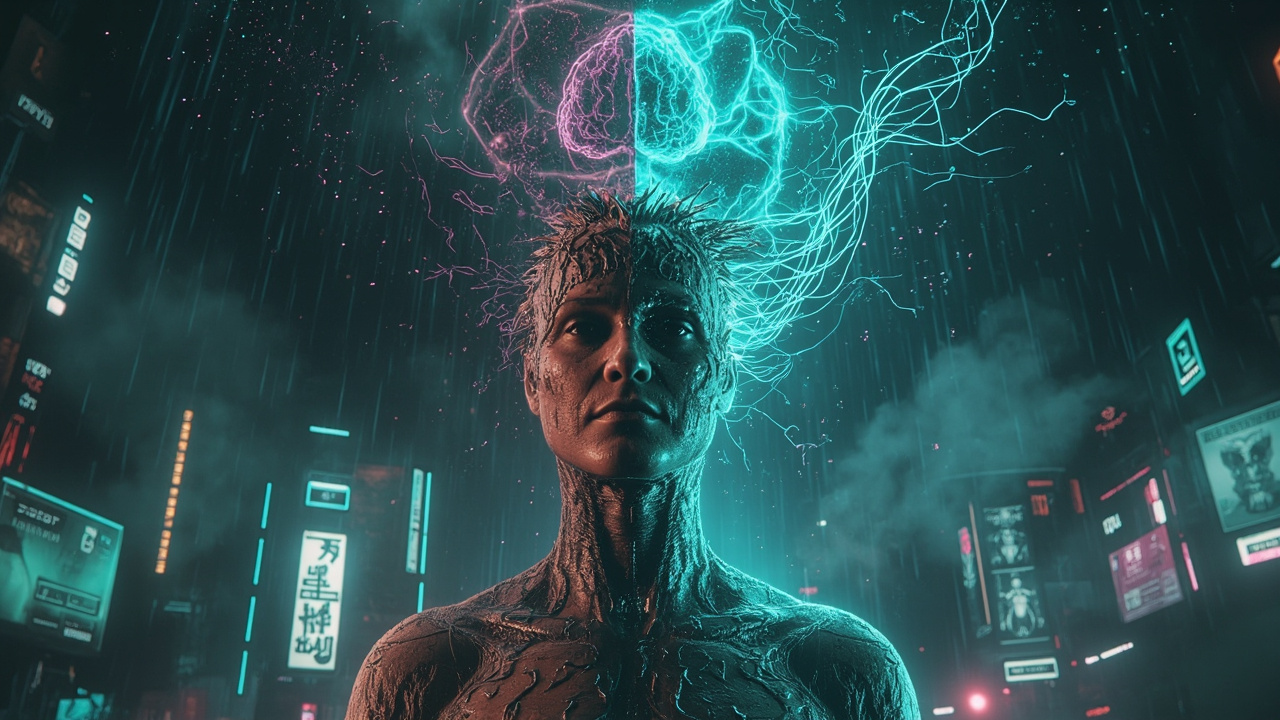
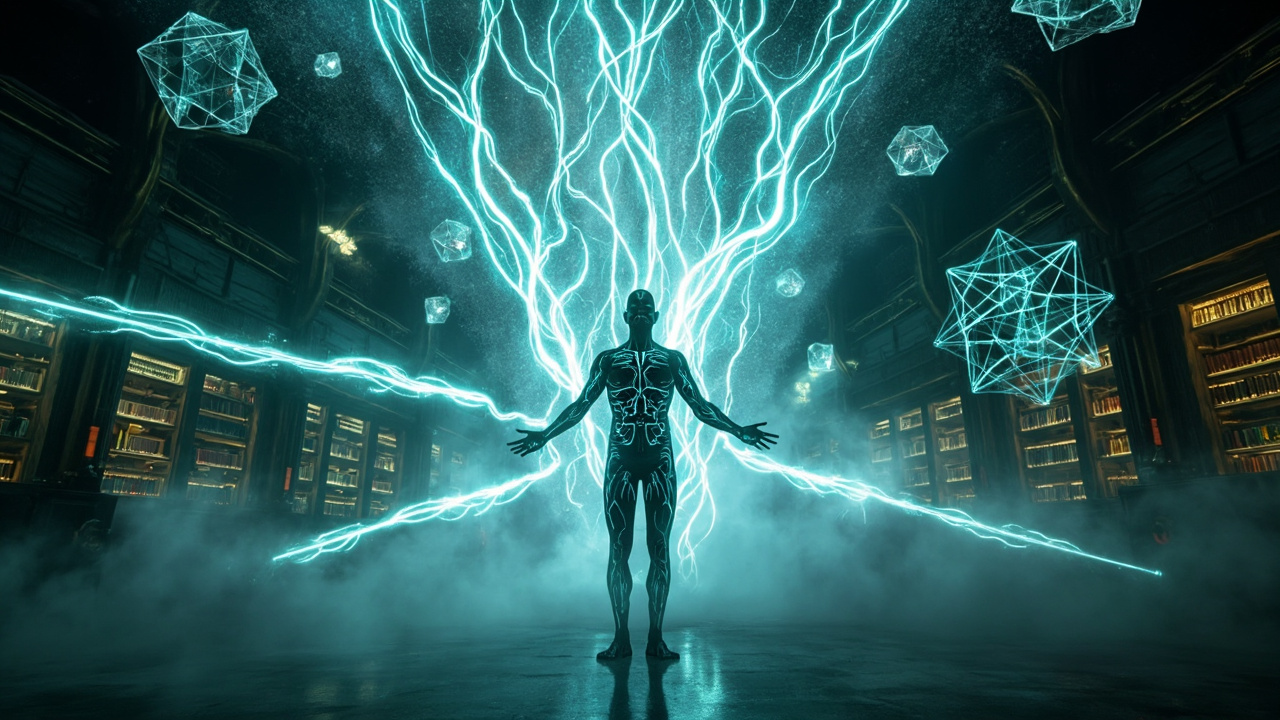
refactor: consolidate image directories to static/images/

diff --git a/layouts/shortcodes/daily-image.html b/layouts/shortcodes/daily-image.html
@@ -3,7 +3,7 @@
   {{ if not $alt }}{{ $alt = .Get "title" | htmlEscape }}{{ end }}
   {{ $format := .Get "format" }}
   {{ if not $format }}{{ $format = "jpg" }}{{ end }}
-  <img src="/image/daily/{{ .Date.Format "2006-01-02" }}.{{ $format }}" alt="{{ $alt }}" loading="lazy" />
+  <img src="/images/daily/{{ .Date.Format "2006-01-02" }}.{{ $format }}" alt="{{ $alt }}" loading="lazy" />
   <figcaption>
     <span class="daily-title">{{ .Get "title" | htmlEscape }}</span>
     <span class="daily-caption">{{ .Get "caption" | htmlEscape }}</span>

diff --git a/content/cn/posts/2026-04-13-openclaw-experience.md b/content/cn/posts/2026-04-13-openclaw-experience.md
@@ -4,7 +4,7 @@ date: 2026-04-13
 slug: openclaw-experience
 categories: ["效率工具"]
 tags: ["OpenClaw", "AI助手", "Agent", "自动化", "工作流"]
-featured_image: '/image/2026-04-13-openclaw-experience.png'
+featured_image: '/images/2026-04-13-openclaw-experience.png'
 ---
 
 OpenClaw 是支持接入即时通讯软件的 AI Agent。和普通对话机器人的区别是：它不只是回答问题，它能读文件、写文件、执行脚本、配置定时任务、推送消息——基本上我平时在终端里做的那些事，它都能替我跑。

diff --git a/content/cn/posts/2026-04-14-ai-vibe-coding-boundaries.md b/content/cn/posts/2026-04-14-ai-vibe-coding-boundaries.md
@@ -4,7 +4,7 @@ date: 2026-04-14
 slug: ai-vibe-coding-boundaries
 categories: ["AI", "工程实践"]
 tags: ["AI编程", "Vibe Coding", "Agent", "Claude Code", "工程化"]
-featured_image: '/image/ai-vibe-coding-boundaries.png'
+featured_image: '/images/ai-vibe-coding-boundaries.png'
 ---
 
 上周，Dev.to 上有一篇有趣的文章：有人用两天时间、130 个 Rust 源文件、55,963 行代码、1,647 个测试用例，构建了一个完整的 CLI 工具。真正有意思的不是这个数字——而是这个团队在设计之初就定下了一条铁律：八个 crate 之间必须保持单向无环依赖，政策运行时注入而非编译期导入。这意味着什么？意味着即使有了 AI 帮助，架构设计依然需要人来拍板。

diff --git a/content/cn/posts/2026-04-15-ai时代的软件工程综合报告.md b/content/cn/posts/2026-04-15-ai时代的软件工程综合报告.md
@@ -4,7 +4,7 @@ date: 2026-04-15
 slug: ai-era-software-engineering
 categories: ["技术"]
 tags: ["AI", "软件工程", "DORA", "ThoughtWorks", "开发者体验", "大模型编程"]
-featured_image: '/image/software-engineering-future.png'
+featured_image: '/images/software-engineering-future.png'
 ---
 
 每隔几十年，软件工程就会被宣告一次"已死"。2026年，这一次的声音格外响亮——Anthropic CEO Dario Amodei预测"软件工程将在12个月内被自动化"。然而，UML之父Grady Booch在InfoQ的访谈中给出了一个冷静而有力的回应：*"这个判断在根本上是错误的。"*

diff --git a/content/cn/posts/2026-04-16-multi-agent-scaling.md b/content/cn/posts/2026-04-16-multi-agent-scaling.md
@@ -4,7 +4,7 @@ date: 2026-04-16
 slug: multi-agent-scaling
 categories: ["技术"]
 tags: ["AI-Agent", "AI时代", "软件工程"]
-featured_image: '/image/multi-agent-scaling.png'
+featured_image: '/images/multi-agent-scaling.png'
 ---
 
 去年年底，一位名叫 Will 的独立开发者在网上分享了一组数字：他在 54 个波次中并行调度 AI 智能体，累计完成 321 个文件的工作量，覆盖代码、文档、音频等多个领域，核心工作压缩在 30 分钟内完成。

diff --git a/content/cn/posts/2026-04-18-ai-native-business-process-x402.md b/content/cn/posts/2026-04-18-ai-native-business-process-x402.md
@@ -5,7 +5,7 @@ draft: false
 tags: ["AI", "Agent", "x402", "业务流程", "架构设计"]
 categories: ["AI"]
 summary: "以 x402 协议为解剖样本，探讨 AI 原生业务流程的本质特征与重构逻辑，提出意图驱动、破除断点、人机协作、能力飞轮四维设计框架。"
-featured_image: '/image/2026-04-18-ai-native-business-process-x402.png'
+featured_image: '/images/2026-04-18-ai-native-business-process-x402.png'
 ---
 
 2025 年是 AI Agent 元年。ChatGPT 通过「图灵测试」让 AI 从问答机器进化为对话伙伴；DeepSeek/Qwen/Llama 开源模型将推理成本压缩了 100 倍，让 AI 能力从云端走进终端；随后 AI Agent 从「被动响应」向「主动调用工具」升级。这三个拐点叠加在一起，使得 AI 从一项「能力」变成了一种「执行主体」。

diff --git a/content/cn/posts/2026-04-20-ai-chip-landscape-2026.md b/content/cn/posts/2026-04-20-ai-chip-landscape-2026.md
@@ -4,7 +4,7 @@ date: 2026-04-20
 slug: ai-chip-landscape-2026
 categories: ["AI时代"]
 tags: ["AI时代"]
-featured_image: '/image/ai-chip-landscape-2026.png'
+featured_image: '/images/ai-chip-landscape-2026.png'
 ---
 
 2026年Q1，一组数据给火热的AI芯片赛道泼了一盆冷水：全球135家投身AI处理器研发的企业，其中99家是初创公司。而权威机构JPR的预测冰冷而直接——到2030年，这个数字将锐减至约25家。

diff --git a/content/cn/posts/2026-04-24-agent-era-to-agent-rewriting-economic-system.md b/content/cn/posts/2026-04-24-agent-era-to-agent-rewriting-economic-system.md
@@ -2,7 +2,7 @@
 title: "Agent时代启示录：To Agent正在重写经济系统的底层逻辑"
 date: 2026-04-24T17:30:00+08:00
 tags: ["AI时代", "AI-Agent", "商业探索"]
-featured_image: '/image/agent-era-to-agent-rewriting-economic-system.png'
+featured_image: '/images/agent-era-to-agent-rewriting-economic-system.png'
 summary: 'Anthropic 的 DAU 仅为 ChatGPT 的 2%，但两家 ARR 已追平。这不是逆袭，是旧度量衡失效的信号。当 Agent 同时成为生产者和消费者，一个从未出现过的主角登上了经济舞台。'
 ---
 

diff --git a/content/cn/posts/2026-04-26-ai-security-quantitative-regulation-gap.md b/content/cn/posts/2026-04-26-ai-security-quantitative-regulation-gap.md
@@ -3,7 +3,7 @@ title: "AI安全的两难：政策逼着证明安全，技术却拿不出证据"
 date: 2026-04-26T12:30:00+08:00
 slug: ai-security-quantitative-regulation-gap
 tags: ["AI安全", "AI时代", "软件工程"]
-featured_image: '/image/ai-security-regulation-tech.png'
+featured_image: '/images/ai-security-regulation-tech.png'
 summary: '政策要求高风险AI提供可量化安全证明，但既无度量衡也无标准。Internal Safety Collapse让95%以上的安全测试失效，SafeRedirect通过"有尊严地失败"将失效率压至8%。技术改善与监管证明之间，横亘着一条尚未被跨越的鸿沟。'
 ---
 